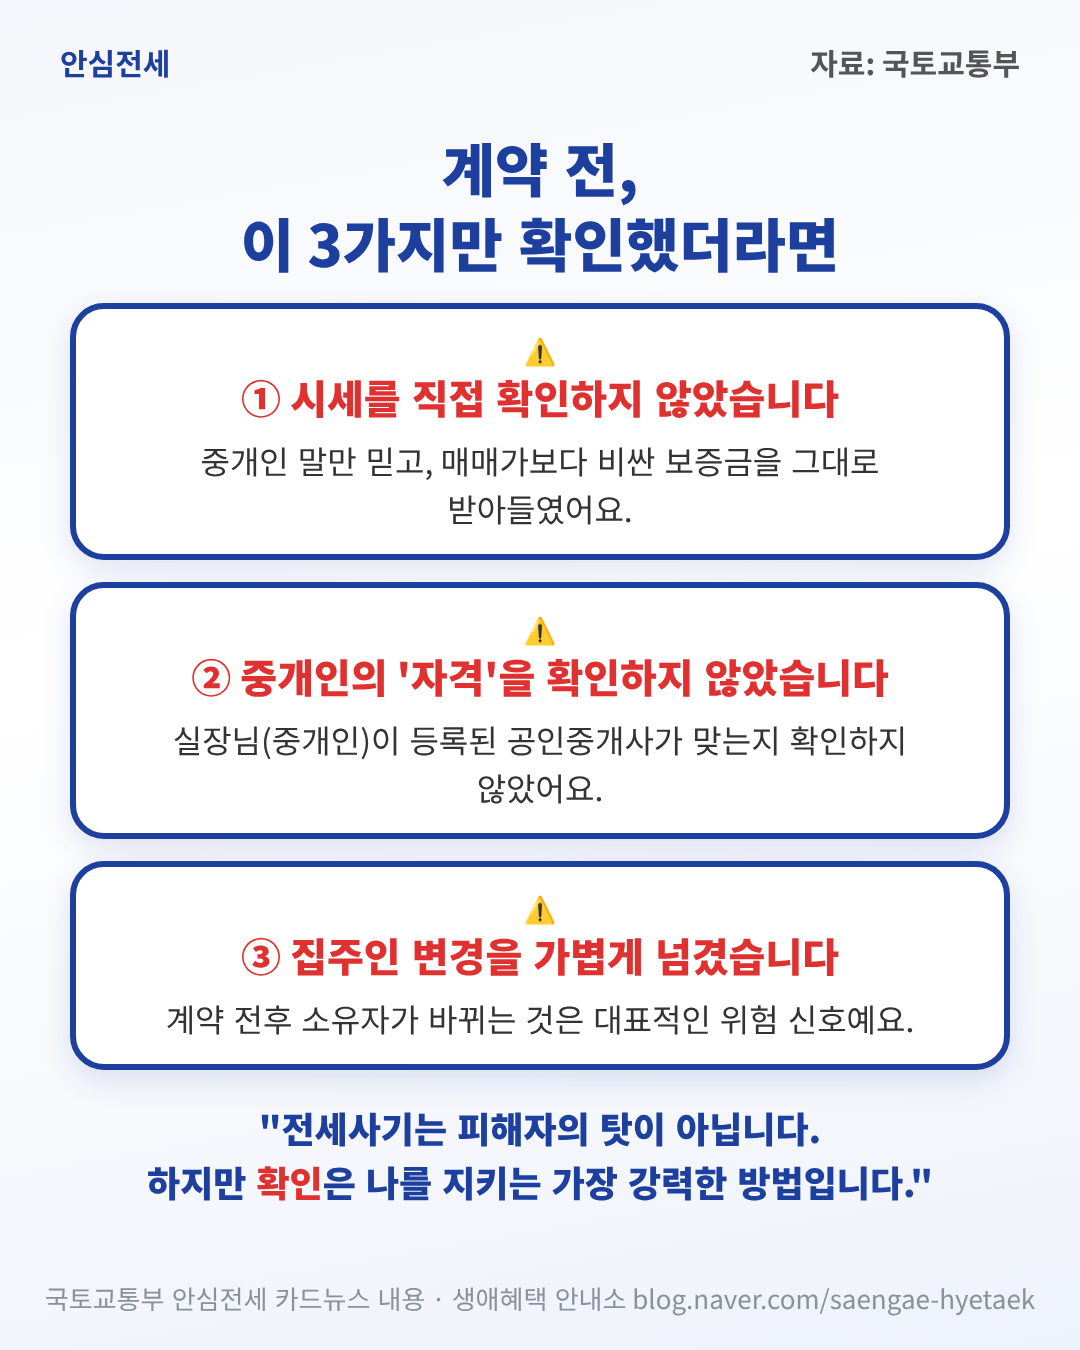
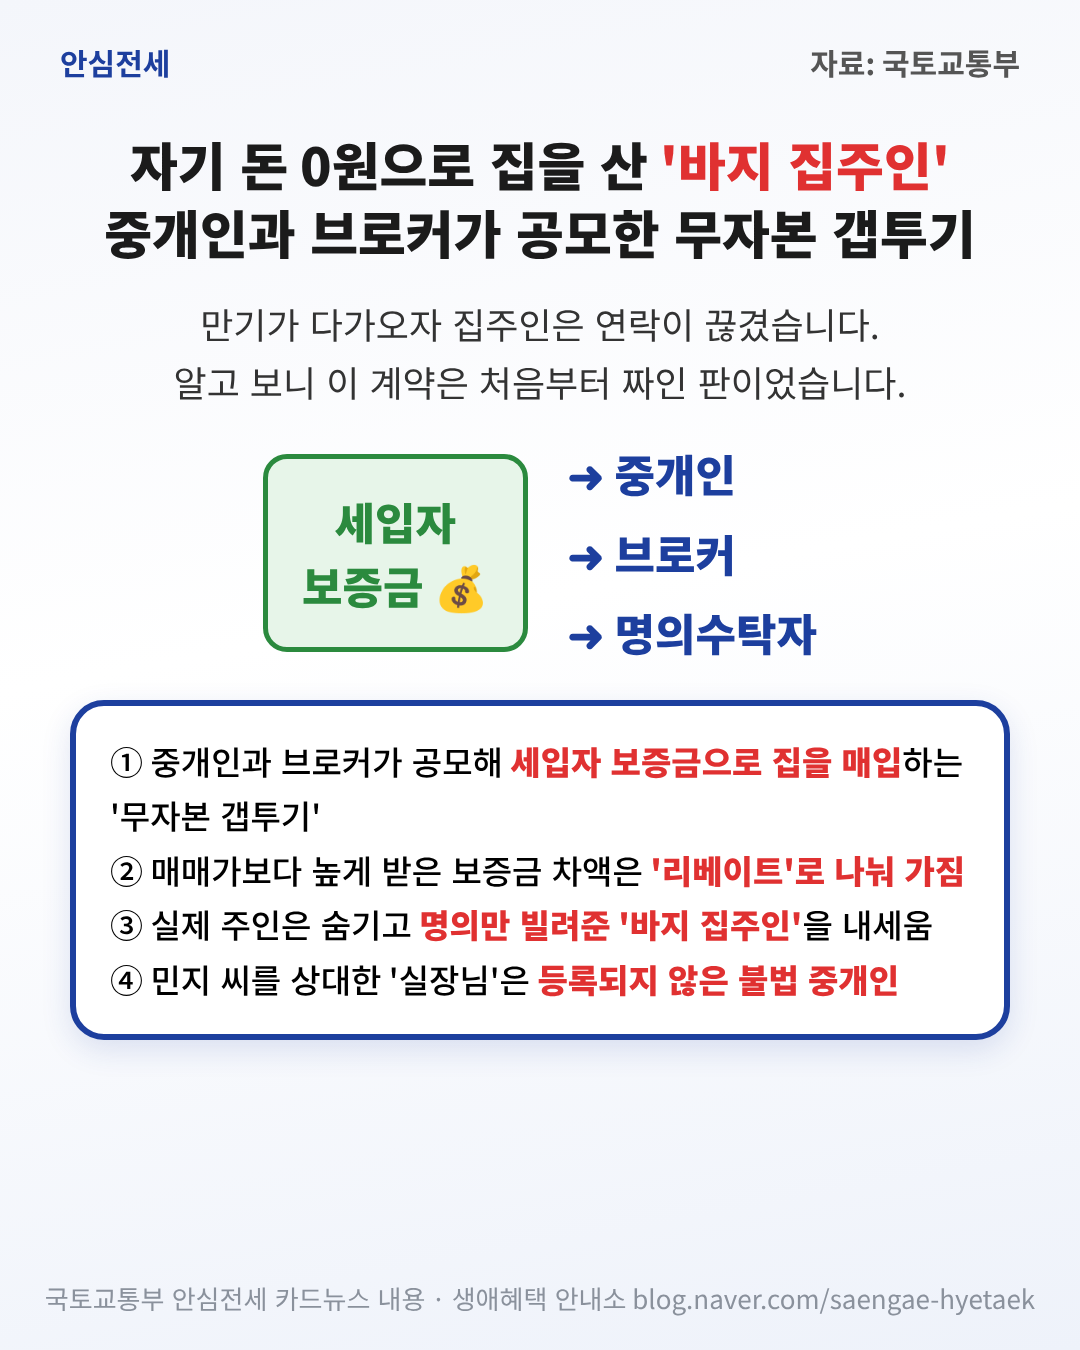
전세사기 속보: 대표 사진은 우리 속보 카드 형식, 국토부 카드는 2번부터 (11/25 사장님)
Claude-Session: https://claude.ai/code/session_01Nk3GpPccrvPauviFJWz5kg

Changed region(s): [[0.0611, 0.0933, 0.9472, 0.9022]]

diff --git a/HANDOFF.md b/HANDOFF.md
@@ -5,6 +5,7 @@
 
 
 ## ⭐ 11/25 16:50 — 정부 카드뉴스는 사진 그대로 다 쓰기(사람 캐릭터만 빼고) + 사진마다 밑에 쉬운 설명 (사장님)
+- (17:10 추가) 맨 앞 대표 사진은 블로그 메인 목록에 보이므로 항상 우리 속보 카드 형식(make-card.cjs news, 빨간 배지·테두리·정사각형)으로 — 블로그 일관성. 원문 카드는 2번 사진부터. 전세사기 글 고침(사진 01 대표 + 02~08 국토부 카드).
 - (17:00 추가) 사진 밑에 '👉 쉽게 말하면:' 문단을 꼭 붙임 — 사진 글자가 어려울 수 있으니 우리 말로 풀어서. 11/25 전세사기 속보 6장 모두 붙임. 정책 속보 예약 작업 지시문에도 넣음.
 - "글로만 보면 어려울 수 있으니 원문 사진을 웬만하면 다 쓰고, 사람 모양 캐릭터만 빼고 내용은 그대로."
 - 11/25 전세사기 속보: 국토부 카드 7장을 글자 그대로 다시 그림(캐릭터 뺌, '자료: 국토교통부' 표기) → 사진 01~07, 원고 이미지 7장. 도구 tools/blog-card/make-jeonse-1125.cjs.
